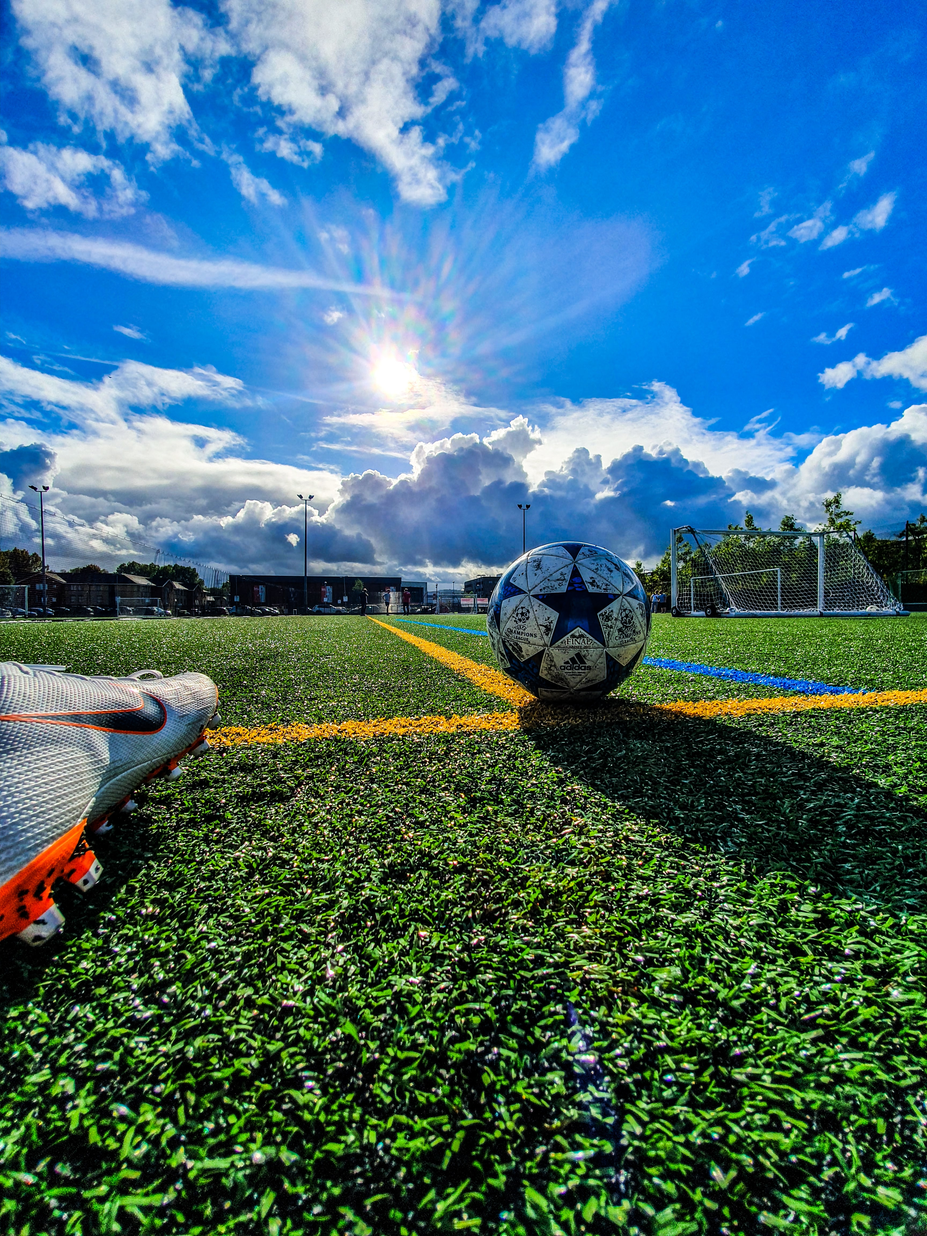
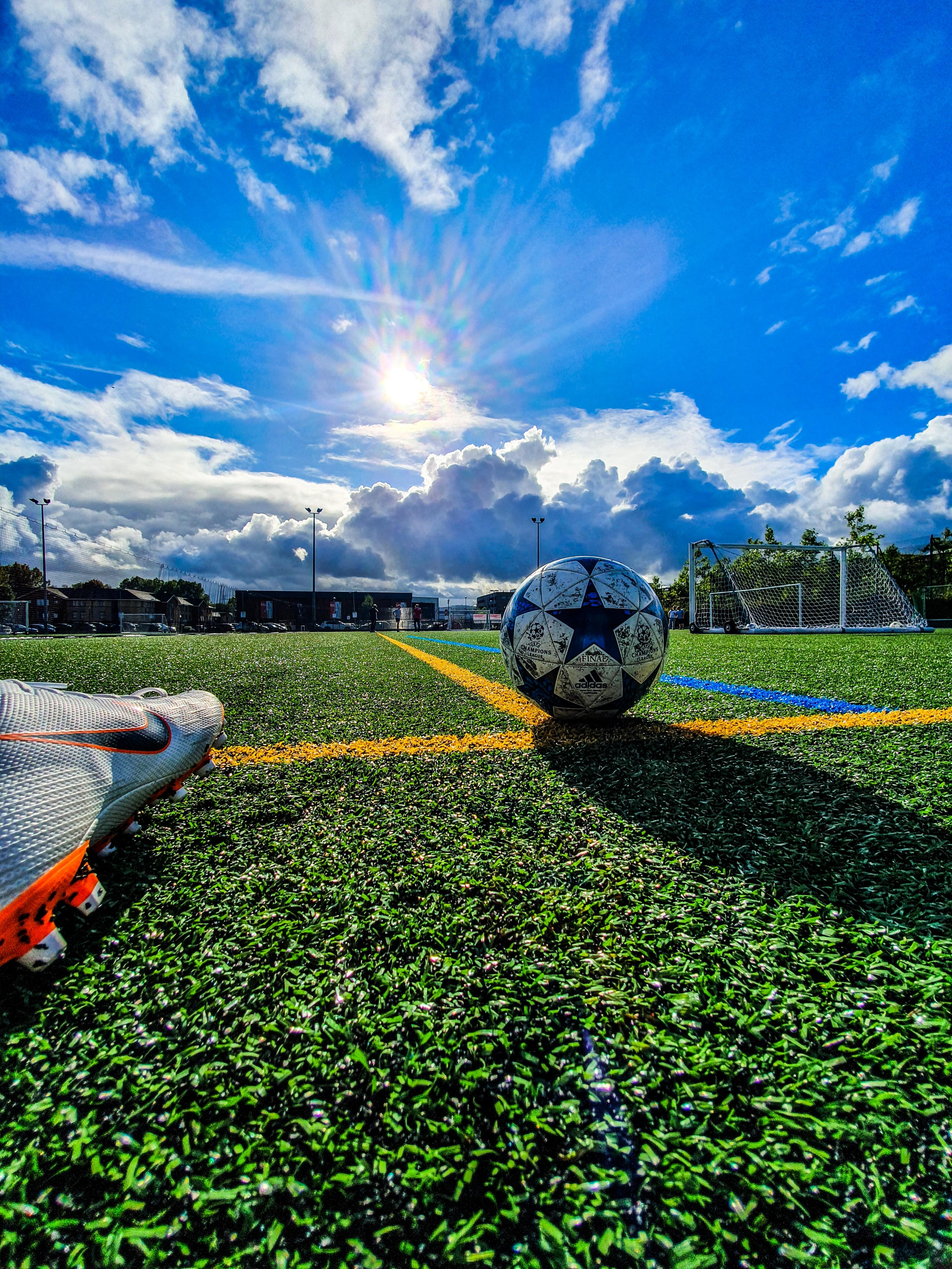
V1.4.2

Changed region(s): [[0.0625, 0.5, 0.5625, 0.625], [0.6875, 0.5, 1.0, 0.5938]]

diff --git a/src/components/pages/loginform.js b/src/components/pages/loginform.js
@@ -1,10 +1,11 @@
 import React, { useState } from "react";
 import "../loginform.css";
 import { useSpring, animated } from "react-spring";
+import {Link} from 'react-router-dom';
 
 function Sign_up() {
   const [registrationFormStatus, setRegistartionFormStatus] = useState(false);
-  const loginProps = useSpring({ 
+  const loginProps = useSpring({
     left: registrationFormStatus ? -500 : 0, // Login form sliding positions
   });
   const registerProps = useSpring({
@@ -12,7 +13,7 @@ function Sign_up() {
   });
 
   const loginBtnProps = useSpring({
-    borderBottom: registrationFormStatus 
+    borderBottom: registrationFormStatus
       ? "solid 0px transparent"
       : "solid 2px #1059FF",  //Animate bottom border of login button
   });
@@ -31,37 +32,39 @@ function Sign_up() {
 
   return (
     <>
-    <div className = "login_background">
-    <div className="login-register-wrapper">
-      <div className="nav-buttons">
-        <animated.button
-          onClick={loginClicked}
-          id="loginBtn"
-          style={loginBtnProps}
-        >
-          Login
+      <div className="login">
+        <div className="login_background">
+          <div className="login-register-wrapper">
+            <div className="nav-buttons">
+              <animated.button
+                onClick={loginClicked}
+                id="loginBtn"
+                style={loginBtnProps}
+              >
+                Login
         </animated.button>
-        <animated.button
-          onClick={registerClicked}
-          id="registerBtn"
-          style={registerBtnProps}
-        >
-          Register
+              <animated.button
+                onClick={registerClicked}
+                id="registerBtn"
+                style={registerBtnProps}
+              >
+                Register
         </animated.button>
+            </div>
+            <div className="form-group">
+              <animated.form action="" id="loginform" style={loginProps}>
+                <LoginForm />
+              </animated.form>
+              <animated.form action="" id="registerform" style={registerProps}>
+                <RegisterForm />
+              </animated.form>
+            </div>
+            <animated.div className="forgot-panel" style={loginProps}>
+              <Link to="/">Forgot your password</Link>
+            </animated.div>
+          </div>
+        </div>
       </div>
-      <div className="form-group">
-        <animated.form action="" id="loginform" style={loginProps}>
-          <LoginForm />
-        </animated.form>
-        <animated.form action="" id="registerform" style={registerProps}>
-          <RegisterForm />
-        </animated.form>
-      </div>
-      <animated.div className="forgot-panel" style={loginProps}>
-        <a herf="#">Forgot your password</a>
-      </animated.div>
-    </div>
-    </div>
     </>
   );
 }

diff --git a/src/components/loginform.css b/src/components/loginform.css
@@ -1,12 +1,21 @@
 /* Reset styles */
-html,.login_background, .login_background * { 
+
+ * { 
     box-sizing: border-box; 
     font-family: 'Open Sans', sans-serif; 
     margin:0;
     padding:0;
     color:inherit;
     background-color:inherit;
+    
     /* border:2px solid orange; */
+ }
+
+ .login_background{
+    display: flex;
+    height: 90vh;
+    align-items: center;
+    justify-content: center;
  }
 
  .login_background {
@@ -14,8 +23,8 @@ html,.login_background, .login_background * {
     background-size:  cover;
     background-position:center center;
     background-repeat: no-repeat;
-    
   }
+
   .container {
       width: 100%;
       padding-top: 60px;
@@ -66,8 +75,8 @@ html,.login_background, .login_background * {
     margin-left: auto;
     margin-right: auto;
     text-align: center;
-    padding-top: 24px;
-    border-top: solid 1px rgba(255,255,255,.3);    
+    padding-top: 10px;
+    border-top: solid 1px rgba(4, 19, 230, 0.3);    
 }
 
     /* form styling */
@@ -109,7 +118,16 @@ html,.login_background, .login_background * {
 
     .forgot-panel {
         margin-top:-300px;
-        color:gray;
+        color:rgb(255, 255, 255, 1);
+        height: 40px;
+        background-color: rgb(84, 238, 243);
+        font-size: 1em;
+        text-transform: uppercase;
+        text-align: center;
+        border-radius: 20px;
+        font-weight: 700;
+        padding-bottom : 20px;
+        color : inherit;
     }
 
     form, .forgot-panel { 

diff --git a/src/components/Navbar.css b/src/components/Navbar.css
@@ -111,9 +111,10 @@
     position: absolute;
     top: 0;
     right: 0;
-    transform: translate(-100%, 60%);
+    transform: scale(0.4) translate(-90%, 60%);
     font-size: 1.8rem;
     cursor: pointer;
+    position: fixed;
   }
 
   .fa-times {

diff --git a/src/App.css b/src/App.css
@@ -23,7 +23,7 @@
 }
 
 .home {
-  background-image: url('./images/main_image.jpg');
+  background-image: url('./images/img-1.jpg');
   background-position: center;
   background-size: cover;
   background-repeat: no-repeat;
